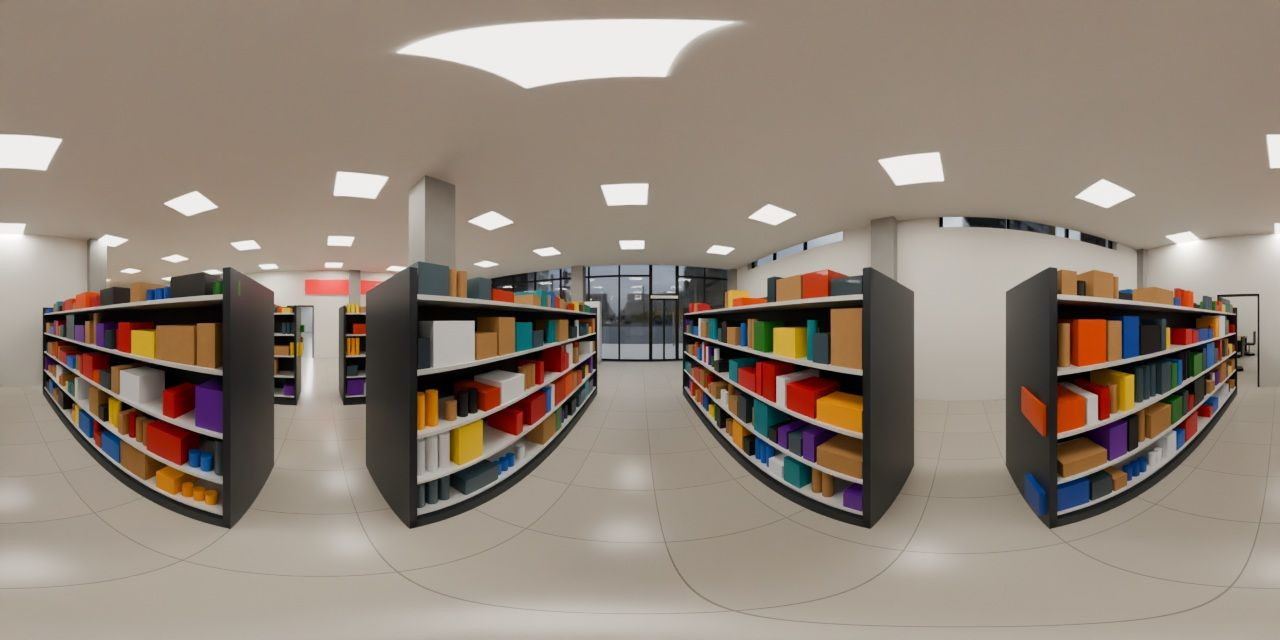
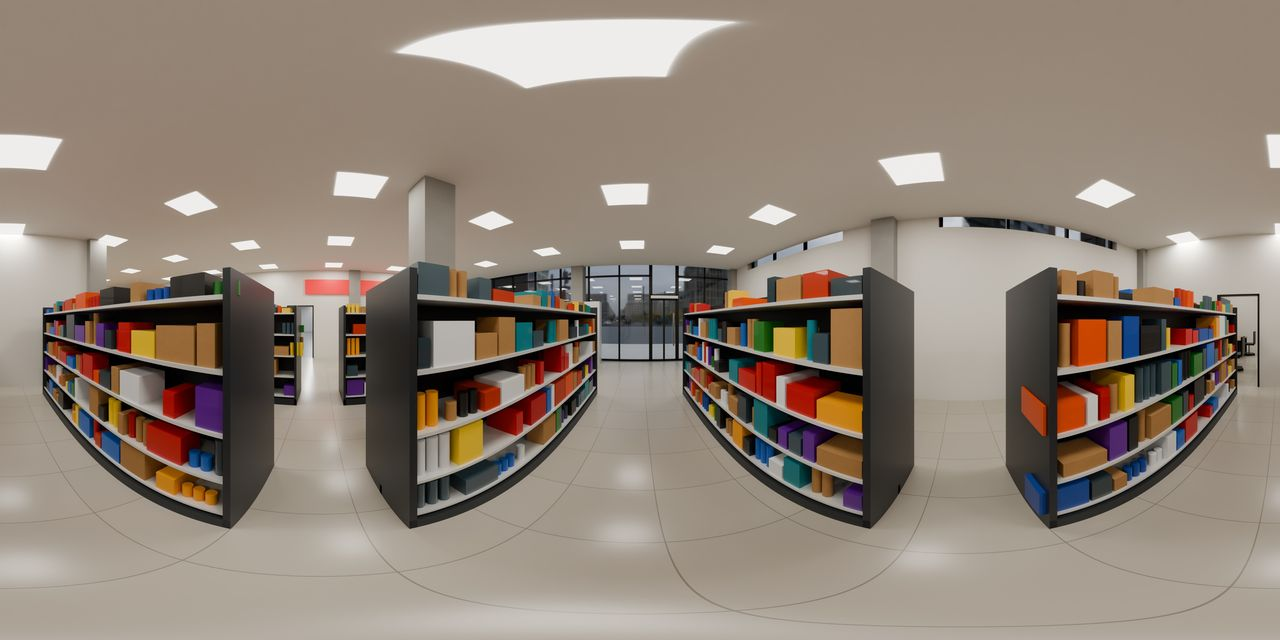
Block D floor 1 tour: the 4K panoramas rendered on the GPU
The nine 4096 x 2048 panoramas rendered with render_blockd.bat replace the CPU
previews in public/tour-d/1, with a sharper top view (60 px/m). render_top.py now
writes to an absolute path: Blender put the top view somewhere else when it was
given one relative to the interior folder.

Claude-Session: https://claude.ai/code/session_01Mbp83a7N2oAhKpBbcfYvXZ

diff --git a/interior/render_top.py b/interior/render_top.py
@@ -89,7 +89,7 @@ r.image_settings.color_mode = 'RGBA'
 sc.cycles.samples = samples
 sc.cycles.use_adaptive_sampling = True
 sc.cycles.use_denoising = True
-r.filepath = out + '.png'
+r.filepath = os.path.abspath(out) + '.png'  # absolute: Blender resolves relative render paths its own way
 os.makedirs(os.path.dirname(os.path.abspath(out)), exist_ok=True)
 bpy.ops.render.render(write_still=True)
 json.dump({'rect': RECT}, open(out + '.json', 'w'))
